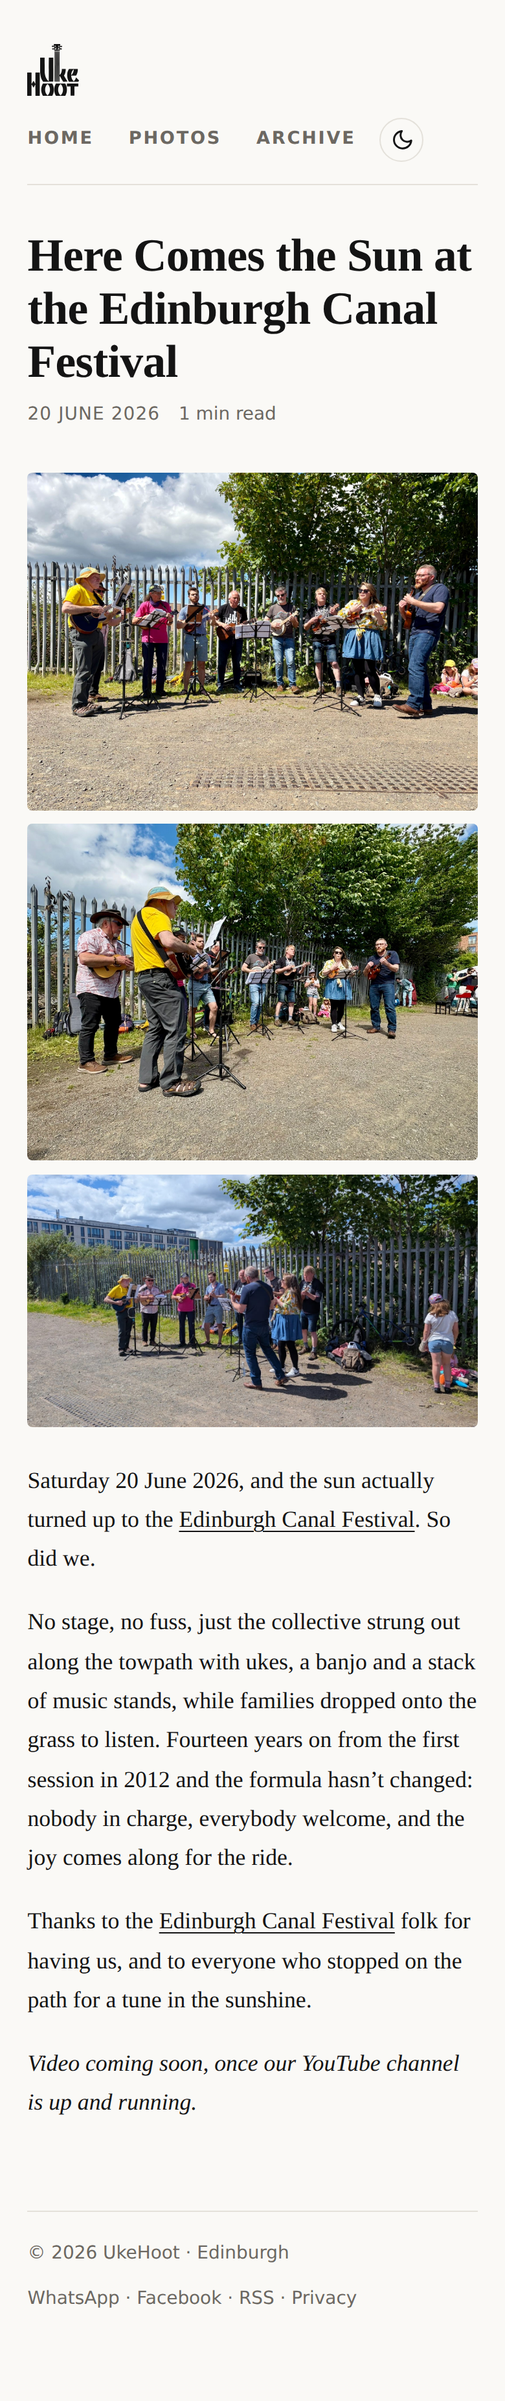
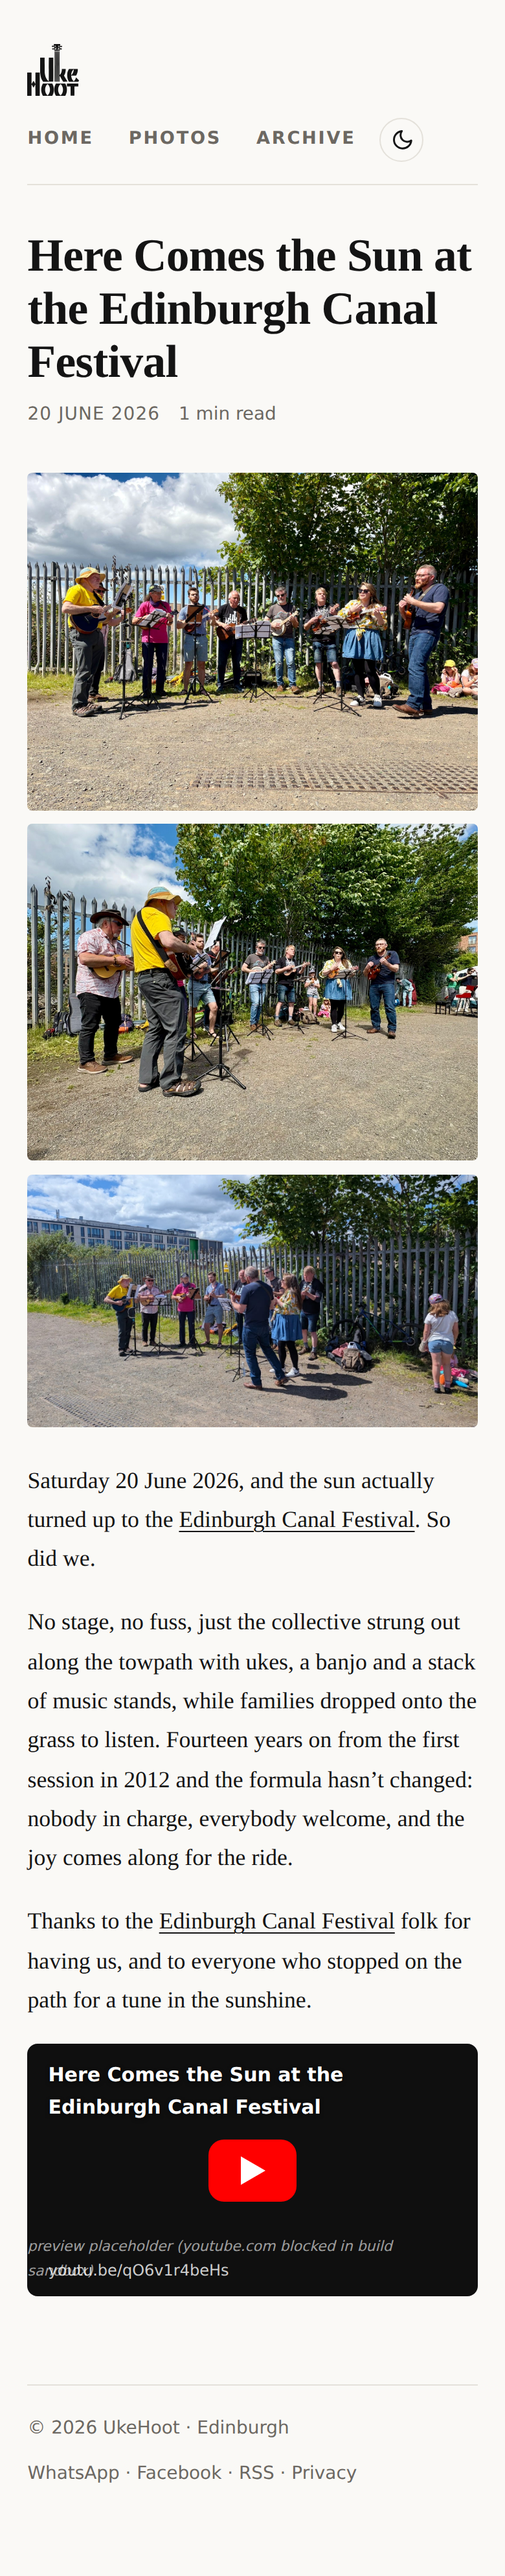
content: embed YouTube video in Canal Festival post (#77)
Replace the placeholder in the Edinburgh Canal Festival post with the
YouTube embed (https://youtu.be/qO6v1r4beHs), matching the iframe markup
used in the existing video post.

diff --git a/packages/site/content/posts/2026/2026-06-20-edinburgh-canal-festival/index.md b/packages/site/content/posts/2026/2026-06-20-edinburgh-canal-festival/index.md
@@ -16,7 +16,4 @@ No stage, no fuss, just the collective strung out along the towpath with ukes, a
 
 Thanks to the [Edinburgh Canal Festival](https://edinburghcanalfestival.org.uk) folk for having us, and to everyone who stopped on the path for a tune in the sunshine.
 
-<div class="video-embed">
-  <!-- TODO: paste the YouTube iframe here once the UkeHoot channel is live (see the 2012 video post for the markup). -->
-  <p><em>Video coming soon, once our YouTube channel is up and running.</em></p>
-</div>
+<div class="video-embed"><iframe width="500" height="281" id="youtube_iframe" src="https://www.youtube.com/embed/qO6v1r4beHs?enablejsapi=1" frameborder="0" allow="accelerometer; autoplay; clipboard-write; encrypted-media; gyroscope; picture-in-picture; web-share" referrerpolicy="strict-origin-when-cross-origin" allowfullscreen title="Here Comes the Sun at the Edinburgh Canal Festival"></iframe></div>
